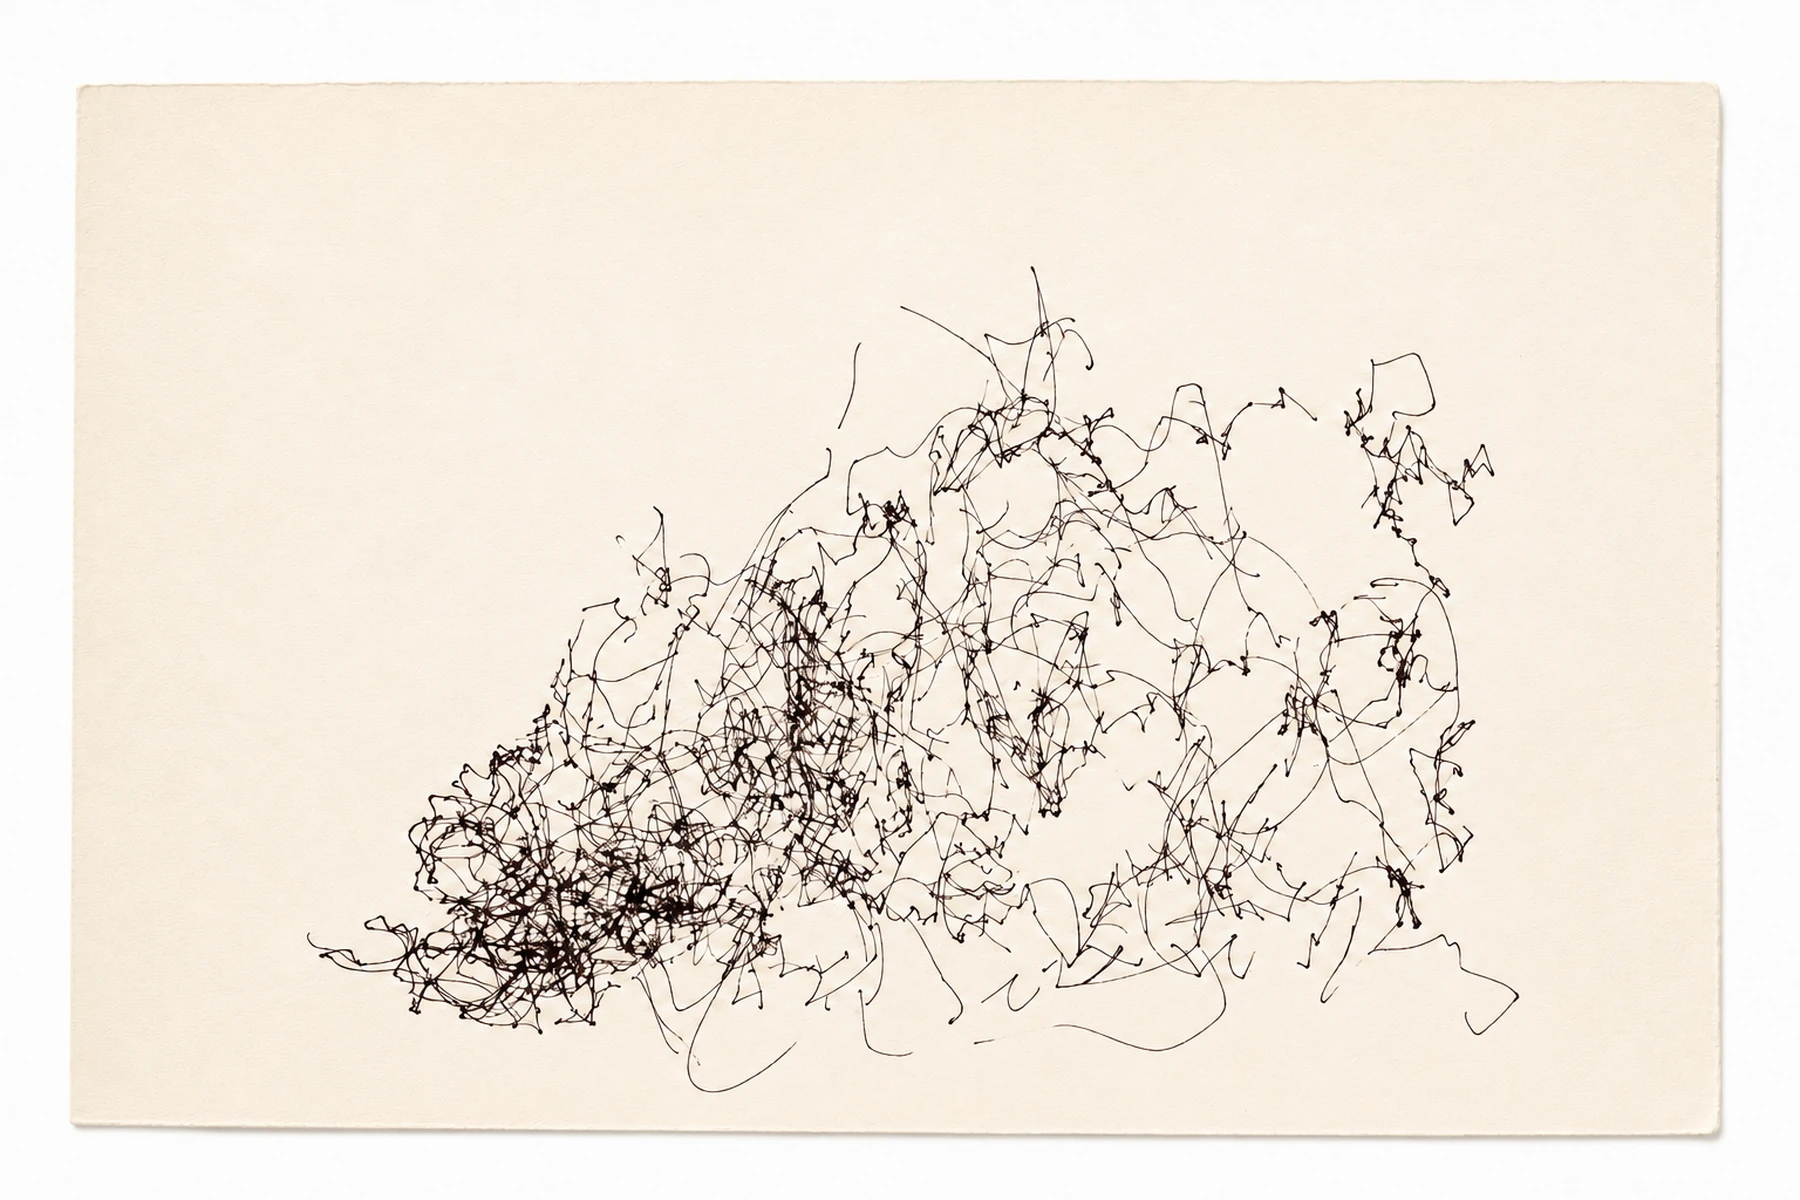
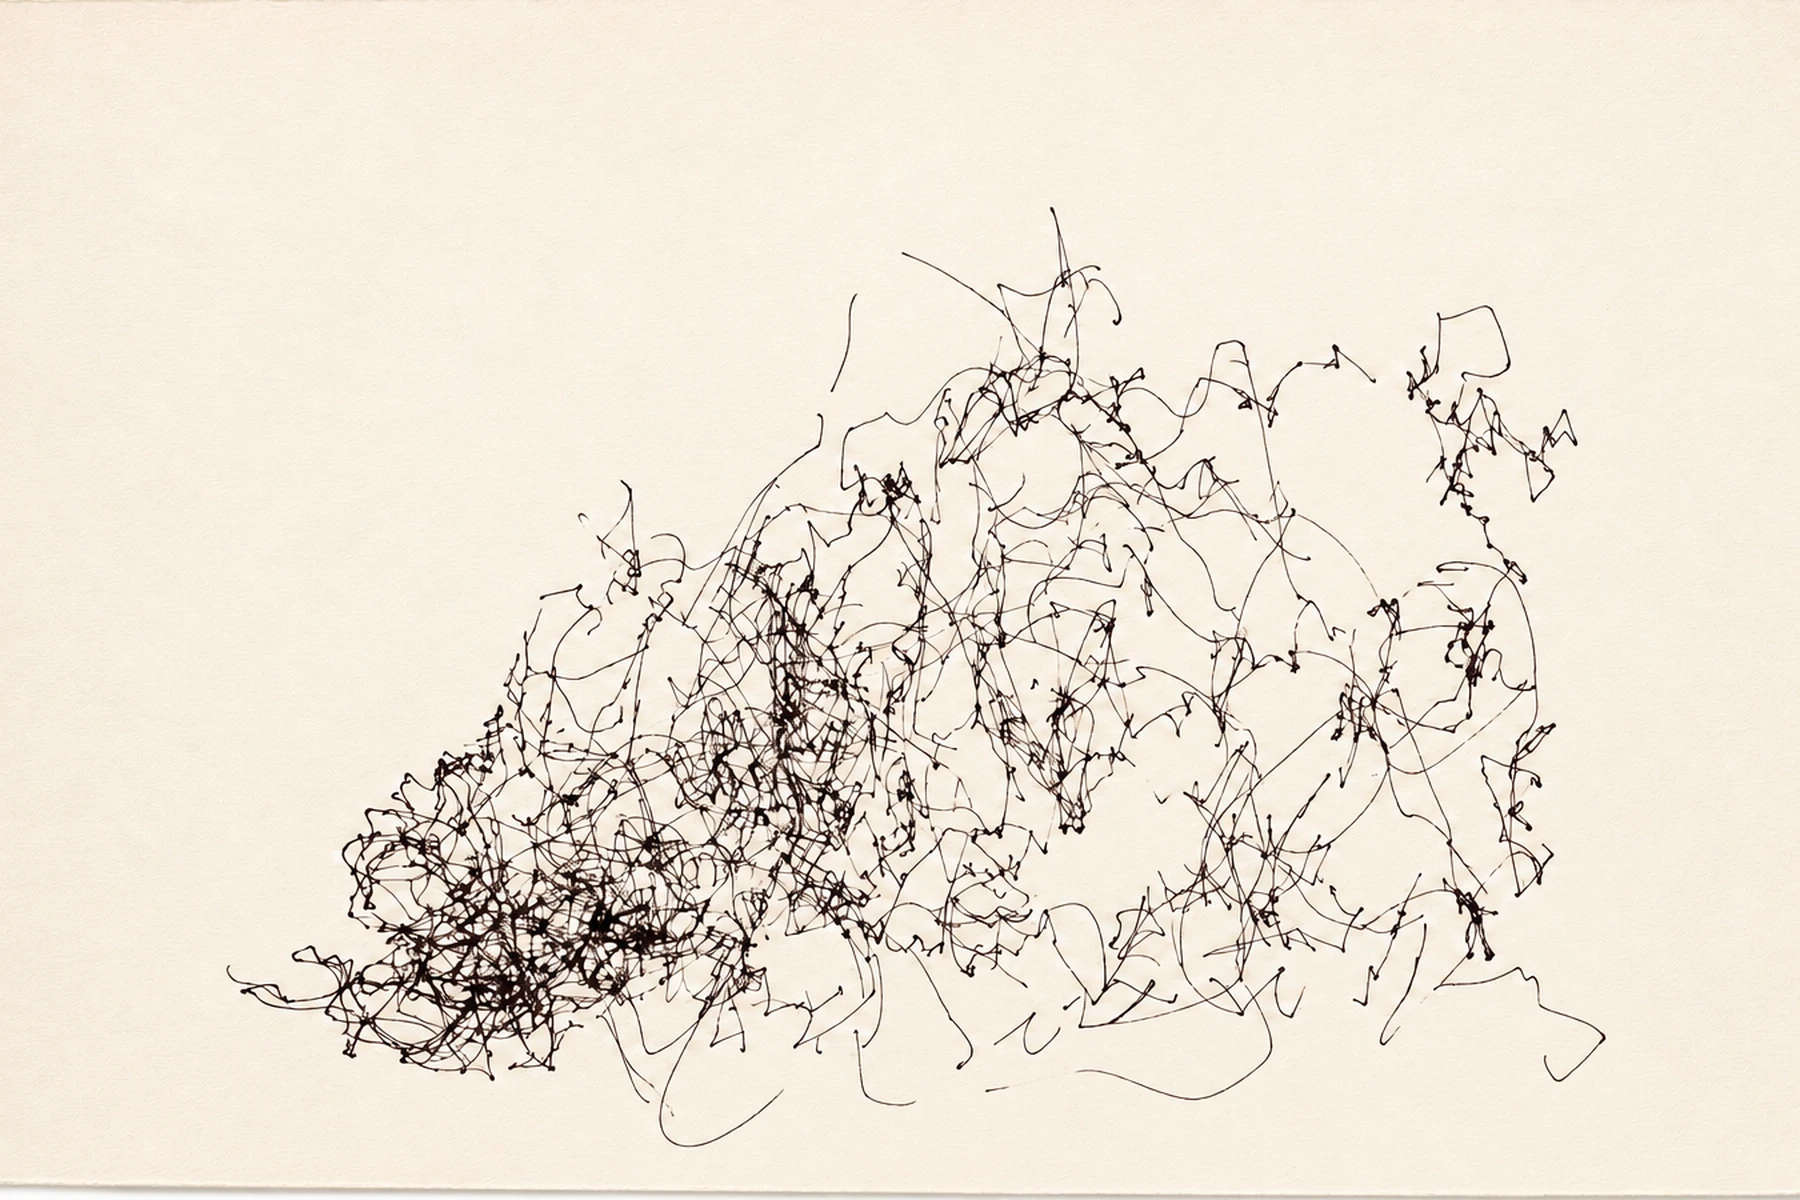
Ajusta enquadramento e posicionamento da capa

diff --git a/styles.css b/styles.css
@@ -1,11 +1,11 @@
 :root {
-  --cor-fundo: #f4f3ef;
+  --cor-fundo: #fff;
   --cor-texto-principal: #111;
   --cor-texto-suave: #77736b;
   --cor-linha-fina: rgba(17, 17, 17, 0.14);
   --cor-painel: rgba(17, 17, 17, 0.035);
   --largura-menu-lateral: 240px;
-  --recuo-hero-topo: 132px;
+  --recuo-hero-topo: 72px;
   --recuo-hero-direita: 56px;
   --recuo-hero-baixo: 104px;
   /* Altura do nome + espaço até o primeiro item do menu ("Sobre"). */
@@ -250,9 +250,12 @@ button {
     margin-top: 0;
   }
 
+  /* O carrossel é centralizado na tela inteira, não só na área à direita do
+     menu; a largura máxima evita que ele invada o menu em telas menores. */
   body.rota-inicial .imagem-hero {
     top: calc(var(--recuo-hero-topo) + var(--altura-marca-menu) + var(--espaco-marca-navegacao));
-    width: min(54vw, 860px);
+    left: calc(50vw - var(--largura-menu-lateral));
+    width: min(54vw, 860px, calc(100vw - 2 * var(--largura-menu-lateral) - 48px));
   }
 
   body.rota-inicial .imagem-hero img {

diff --git a/index.html b/index.html
@@ -14,7 +14,7 @@
       rel="stylesheet"
       href="https://fonts.googleapis.com/css2?family=Inter:wght@300;400;500&family=Inter+Tight:wght@200;300;400&titulo-destaque=swap"
     />
-    <link rel="stylesheet" href="styles.css?v=20261023" />
+    <link rel="stylesheet" href="styles.css?v=20261023-3" />
   </head>
   <body>
     <aside class="menu-lateral">
@@ -82,7 +82,7 @@
           <img data-src="assets/capa/carrossel/3.webp?v=20261023" alt="" loading="lazy" decoding="async" />
         </div>
         <div class="imagem-hero">
-          <img data-src="assets/capa/carrossel/4.webp?v=20261023" alt="" loading="lazy" decoding="async" />
+          <img data-src="assets/capa/carrossel/4.webp?v=20261023-2" alt="" loading="lazy" decoding="async" />
         </div>
         <div class="imagem-hero">
           <img data-src="assets/capa/carrossel/5.webp?v=20261023" alt="" loading="lazy" decoding="async" />

diff --git a/scripts/preparar_capas.py b/scripts/preparar_capas.py
@@ -1,5 +1,5 @@
 from pathlib import Path
-from PIL import Image, ImageOps
+from PIL import Image, ImageChops, ImageFilter, ImageOps
 
 
 ORIGEM = Path("assets/capa")
@@ -14,8 +14,38 @@ def numero_da_capa(arquivo: Path):
     return int(arquivo.stem.split("(")[0])
 
 
+def remover_borda_clara(imagem: Image.Image):
+    # Fotos de obras em papel às vezes chegam com uma margem clara do fundo
+    # de fotografia. Só cortamos quando há margem nos quatro lados, para não
+    # mexer em fotos de exposição com parede branca.
+    pontos = (
+        imagem.getpixel((0, 0)),
+        imagem.getpixel((imagem.width - 1, 0)),
+        imagem.getpixel((0, imagem.height - 1)),
+        imagem.getpixel((imagem.width - 1, imagem.height - 1)),
+    )
+    fundo = tuple(sum(p[i] for p in pontos) // 4 for i in range(3))
+    if min(fundo) < 225:
+        return imagem
+    referencia = Image.new("RGB", imagem.size, fundo)
+    diferenca = ImageChops.difference(imagem, referencia).convert("L")
+    diferenca = diferenca.filter(ImageFilter.GaussianBlur(radius=3))
+    limite = diferenca.point(lambda valor: 255 if valor > 10 else 0).getbbox()
+    if not limite:
+        return imagem
+    esquerda, topo, direita, base = limite
+    margem_minima = round(min(imagem.size) * 0.01)
+    margens = (esquerda, topo, imagem.width - direita, imagem.height - base)
+    if min(margens) < margem_minima:
+        return imagem
+    # Um recuo curto elimina a sombra e o serrilhado da beirada do papel.
+    recuo = round(min(direita - esquerda, base - topo) * 0.006)
+    return imagem.crop((esquerda + recuo, topo + recuo, direita - recuo, base - recuo))
+
+
 def preparar(arquivo: Path):
     imagem = ImageOps.exif_transpose(Image.open(arquivo)).convert("RGB")
+    imagem = remover_borda_clara(imagem)
     enquadrada = ImageOps.fit(
         imagem,
         TAMANHO,
